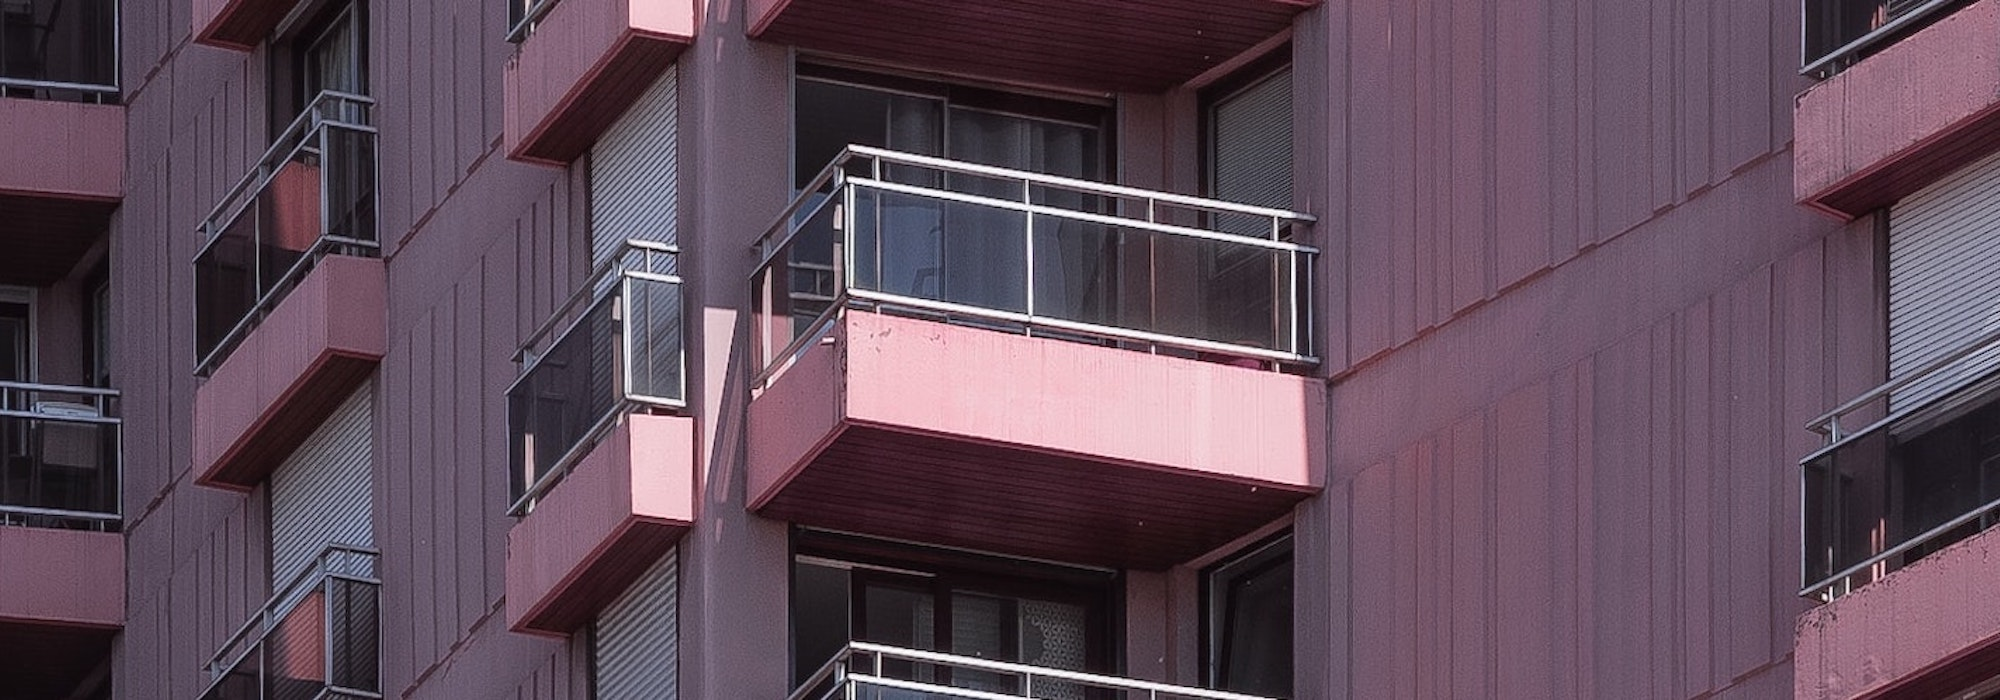
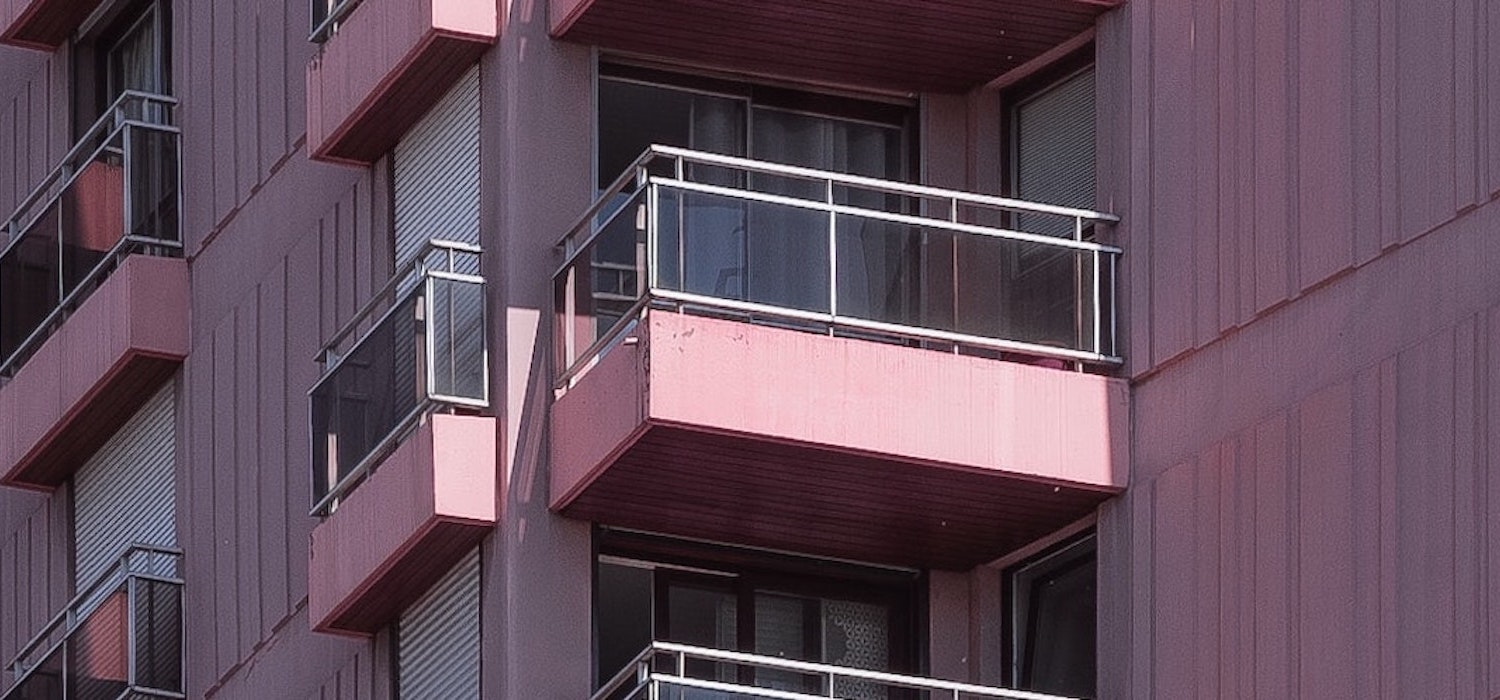
Carousel image resize

diff --git a/index.html b/index.html
@@ -53,19 +53,19 @@
     </header>
     <div class="carousel fade">
         <div class="carouselChild">
-            <img src="images/keyboard.jpeg" style="width: 100%; height: 100%; object-fit: contain">
+            <img src="images/keyboard.jpeg" style="width: 100%; object-fit: cover;">
             <div class="caption">Aspiring artificial intelligence engineer</div>
         </div>
         <div class="carouselChild">
-            <img src="images/window.jpg" style="width: 100%; height: 100%; object-fit: contain">
+            <img src="images/window.jpg" style="width: 100%; object-fit: cover;">
             <div class="caption">Clovis North / CART '22</div>
         </div>
         <div class="carouselChild">
-            <img src="images/building.jpg" style="width: 100%; height: 100%; object-fit: contain">
+            <img src="images/building.jpg" style="width: 100%; object-fit: cover;">
             <div class="caption">Aspiring Natural Language Processing Engineer</div>
         </div>
         <div class="carouselChild">
-            <img src="images/marble.jpg" style="width: 100%; height: 100%; object-fit: contain">
+            <img src="images/marble.jpg" style="width: 100%; object-fit: cover;">
             <div class="caption">CS + Ling @ Duke '26</div>
         </div>
         <a class="backward" onclick="add(-1)">&#10094;</a>
